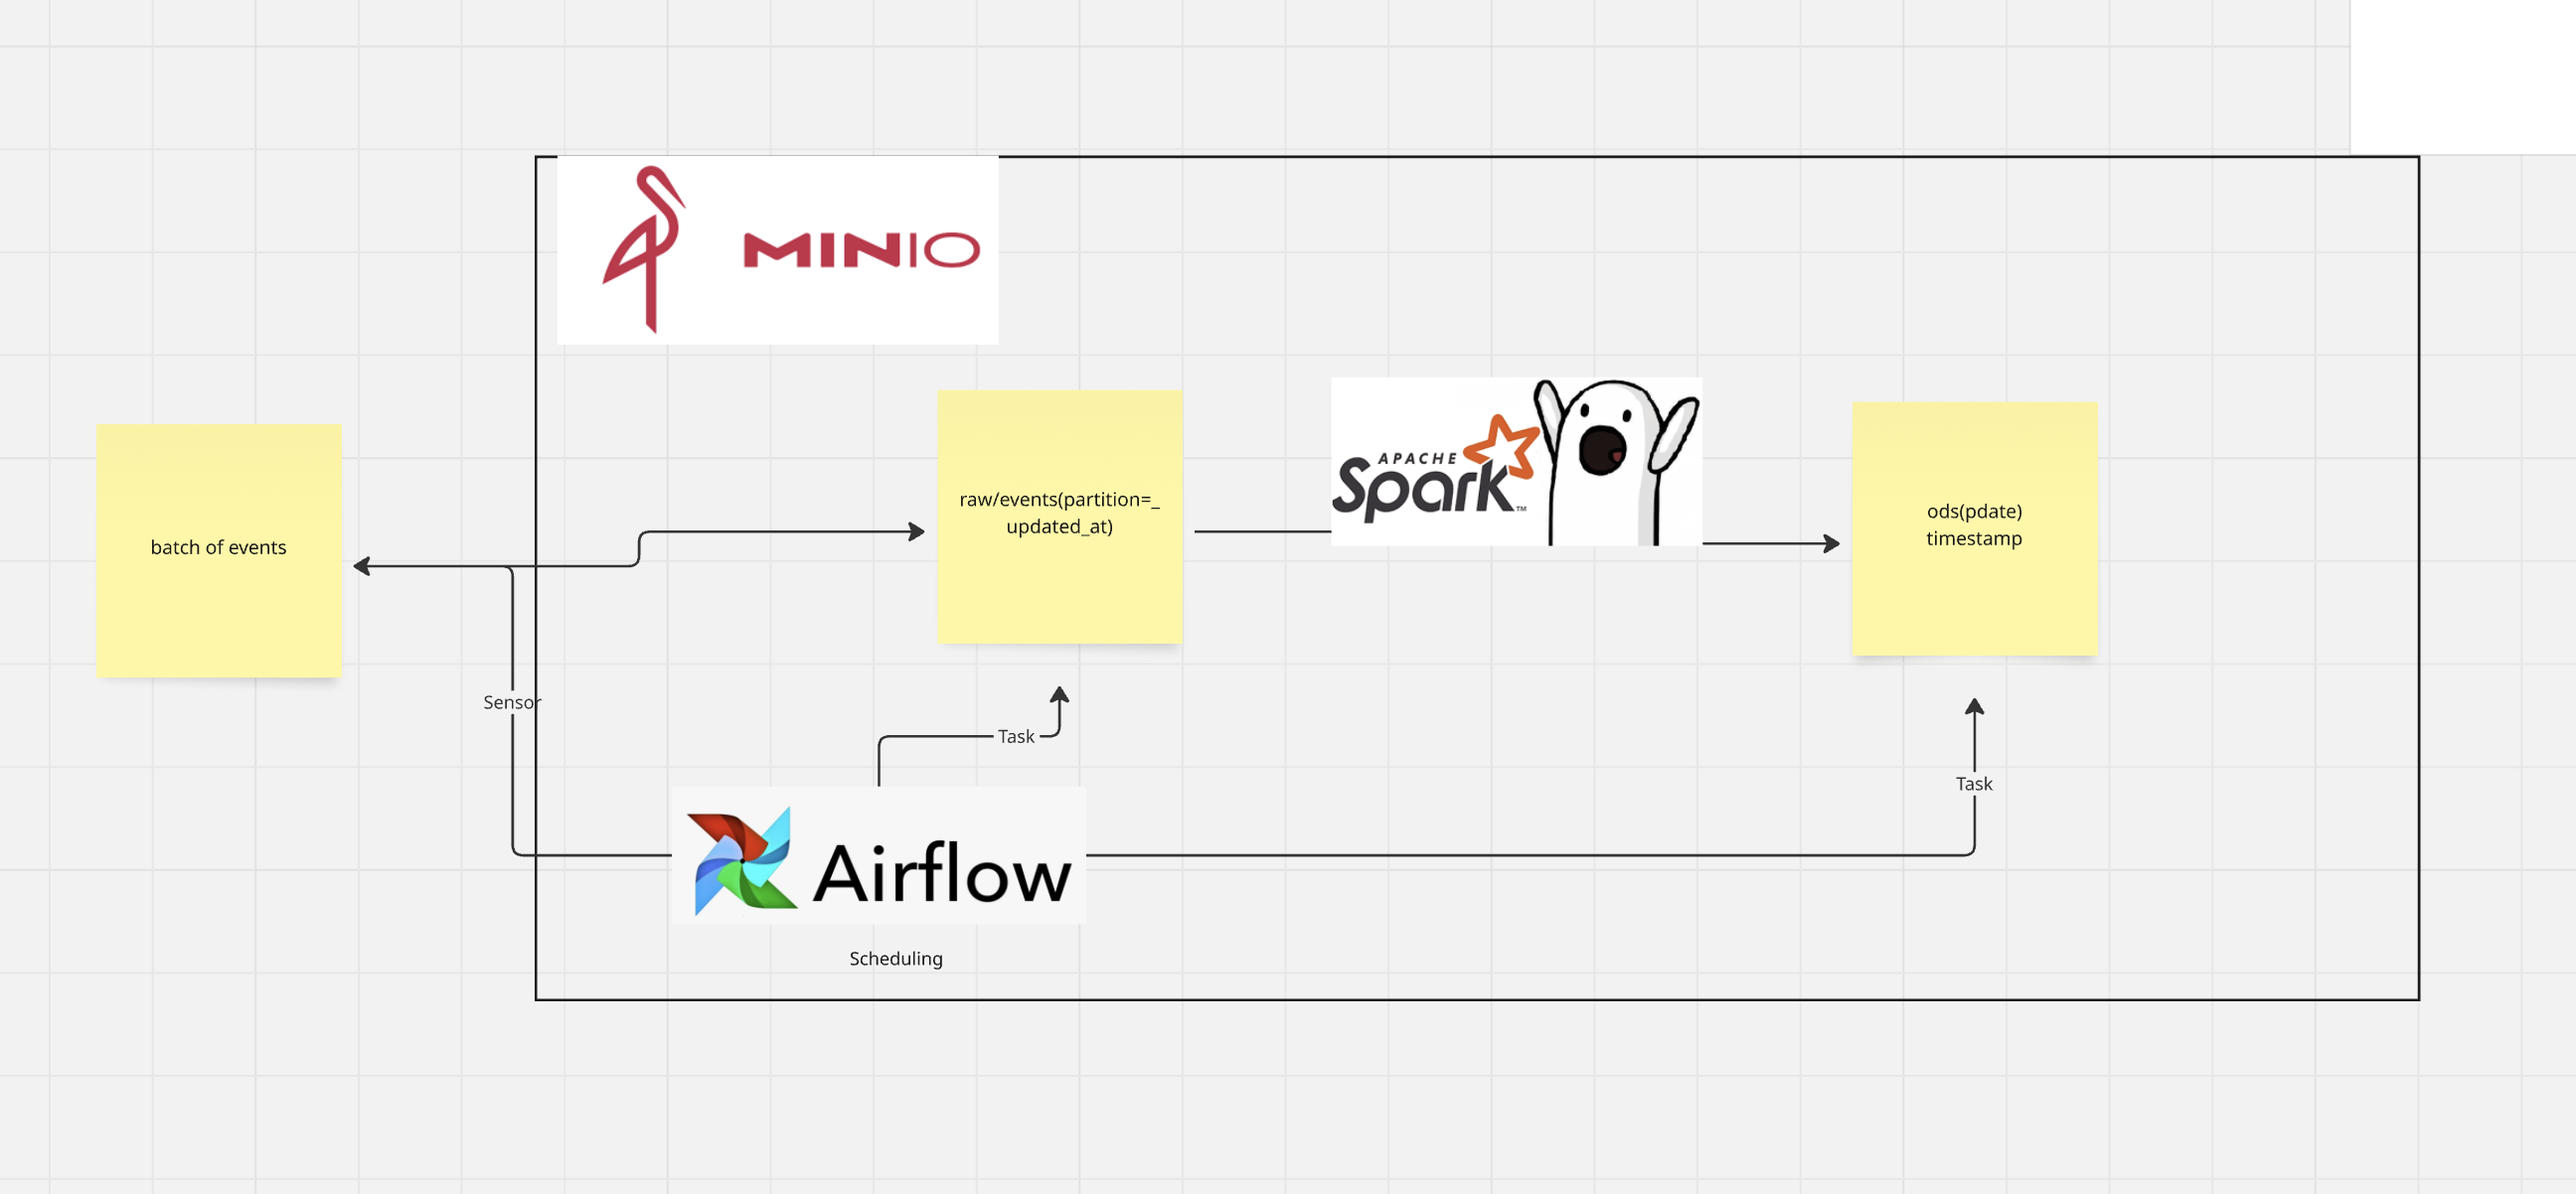
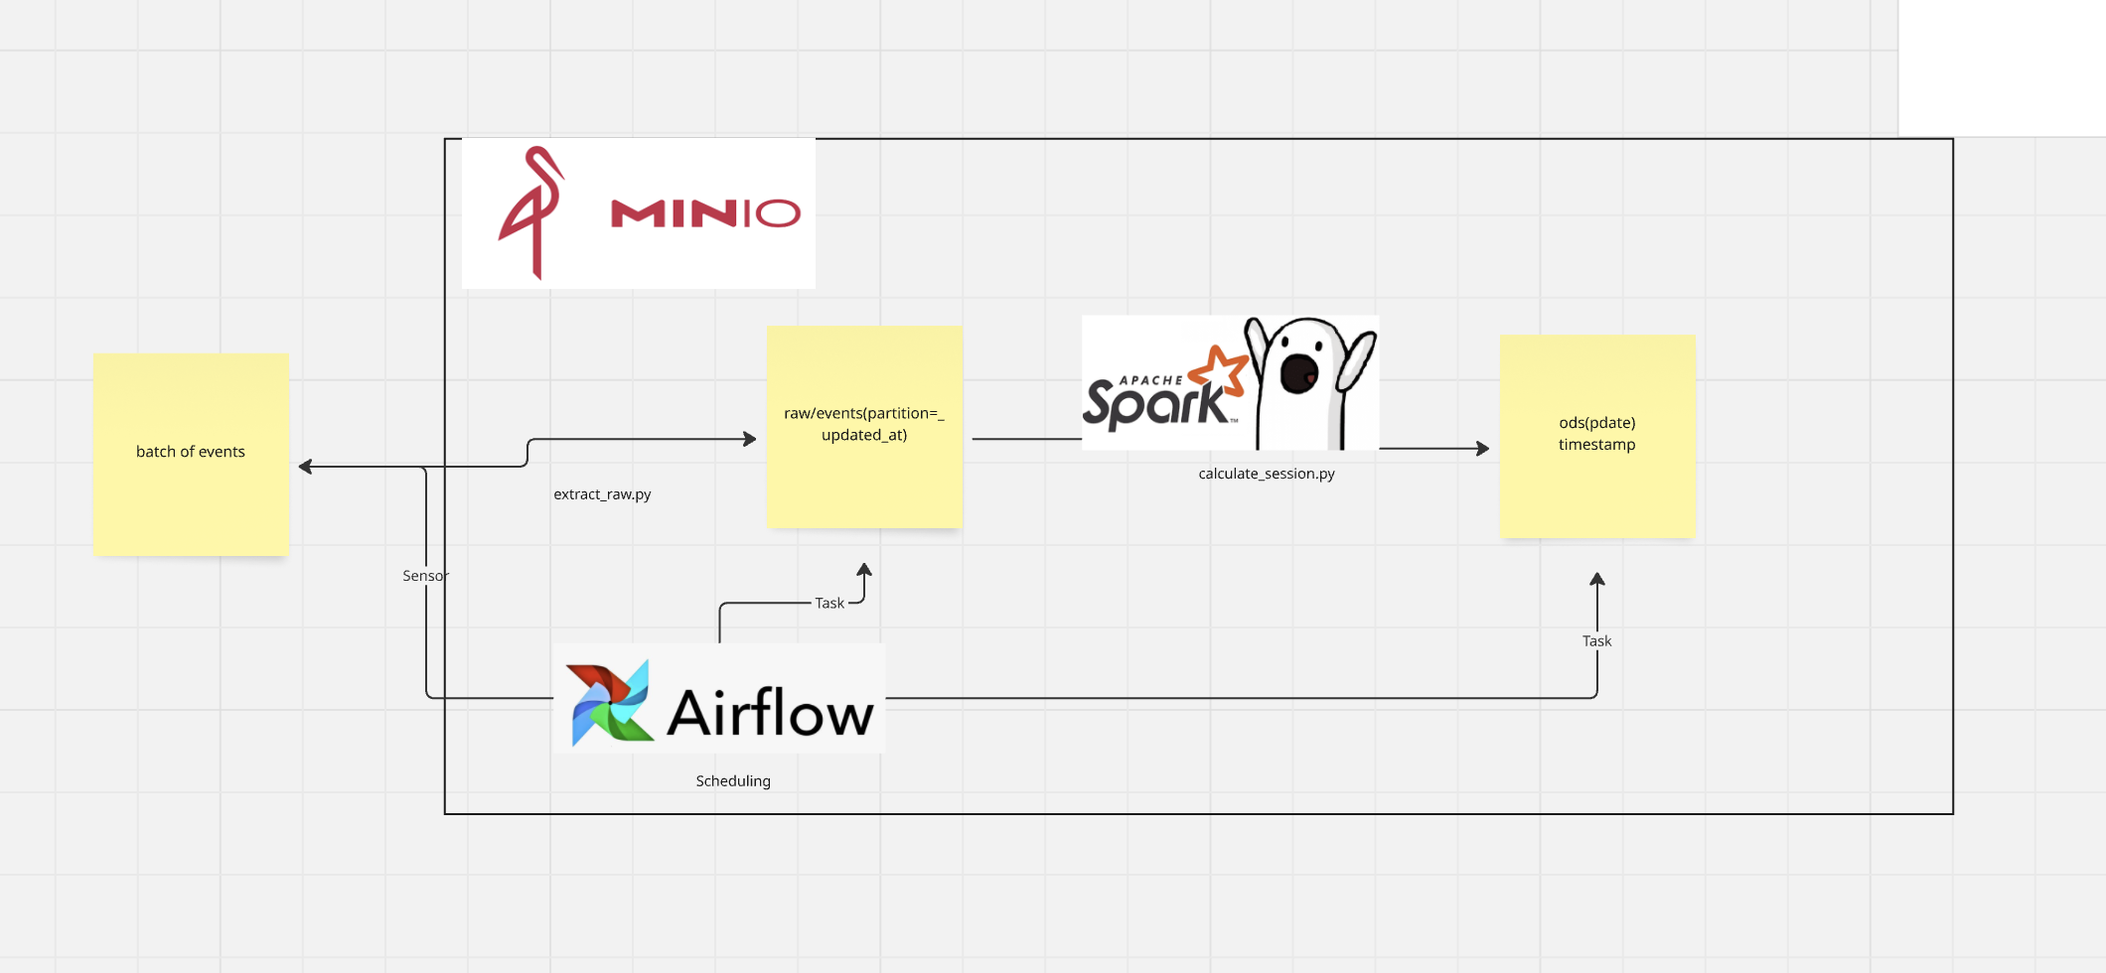
fix readme

diff --git a/README.md b/README.md
@@ -84,6 +84,58 @@ for the following day.
 ### 10. **Using Merge**
 For touching only updated files. This approach allows us to implement idempotent process, because it doesn't matter when we launch script.
 
+### **How it looks like in Airflow**
+
+Due to time constraints and to make the project easier to grasp, I didn't set up Airflow separately. However, I decided to share how it could potentially look.
+Two Python operators (if we were using PySpark in the Airflow environment), or something else (for example, a Kubernetes operator to launch a separate driver and executors for each job). Ultimately, the choice depends on the architecture, but I wouldn't bring PySpark into the Airflow image. If we want to store Python files with Spark jobs in Airflow, we could use the PythonVirtualEnvOperator to set up a separate Python environment.
+
+An abstract sensor that would check for the arrival of a batch. Overall, it depends on the source, but I would choose a reschedule sensor to avoid occupying the pools.
+
+```python
+from airflow import DAG
+from airflow.operators.python import PythonOperator
+from airflow.sensors.base import BaseSensorOperator
+from datetime import datetime
+
+class AbstractSensor(BaseSensorOperator):
+    reschedule_interval = timedelta(seconds=30)
+    mode = 'reschedule'  
+    def poke(self, context):
+        print("Poking for condition...")
+        return True
+
+def extract_raw_data():
+    print("Extracting raw data...")
+
+def calculate_session():
+    print("Calculating session...")
+
+default_args = {
+    'owner': 'airflow',
+    'start_date': datetime(2025, 3, 20),
+    'retries': 1,
+}
+
+with DAG(
+    'calculation_session',
+    default_args=default_args,
+    schedule_interval=0 8 * * *, 
+    catchup=False,
+) as dag:
+    
+    wait_for_condition = AbstractSensor(
+        task_id='wait_for_condition'
+    )
+    
+    @task()
+    def extract_raw_data():
+        print("Extracting raw data...")
+
+    @task()
+    def calculate_session():
+        print("Calculating session...")
+
+    wait_for_condition >> extract_task >> calculate_task
 
 
 ## Potential concerns
@@ -94,4 +146,8 @@ It was decided to keep empty sessions. Events with empty sessions are also impor
 
 Storing everything in one table would make structural analysis easier, but could lead to some problems: Depending on the data specifics, there could be a significant imbalance with zero sessions, which might cause issues during calculations, like skew (this can be fixed by filtering out the data). If there are a lot of data with zero sessions, partitioning by flag (whether there is a session or not) can also be done, which will improve performance when filtering.
 
+Below is shown potential architecture with 2 tables 
 
+## Potential other arch 
+
+![Logo](arch_new.png)
